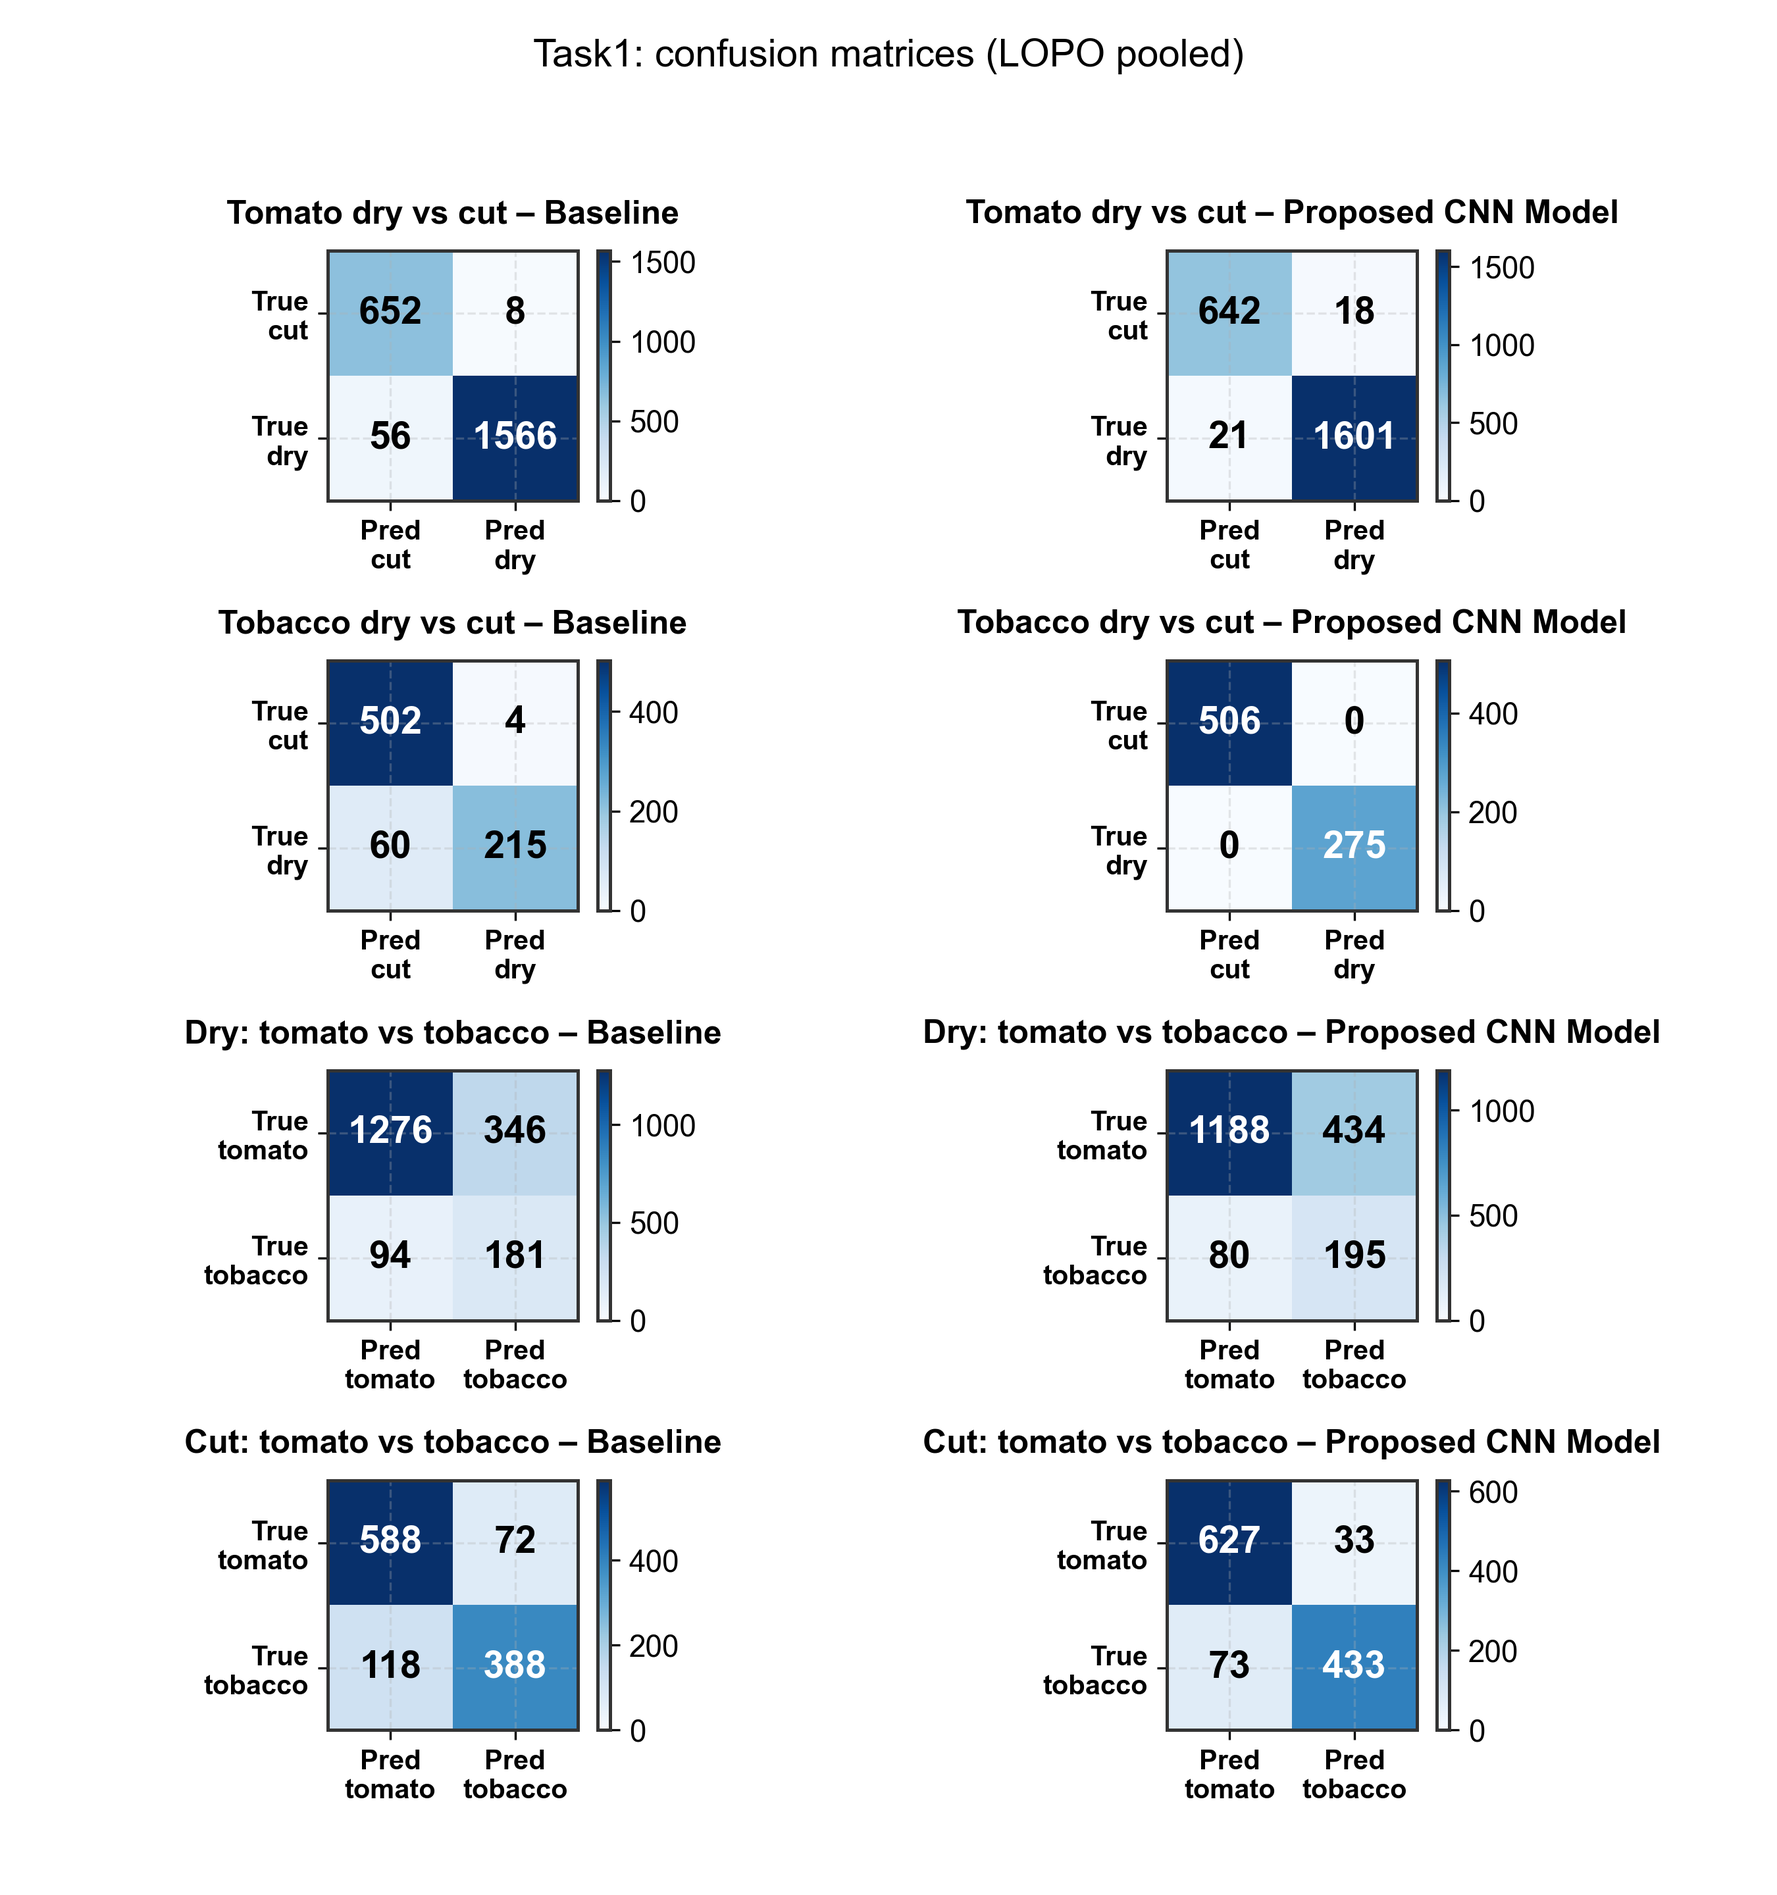
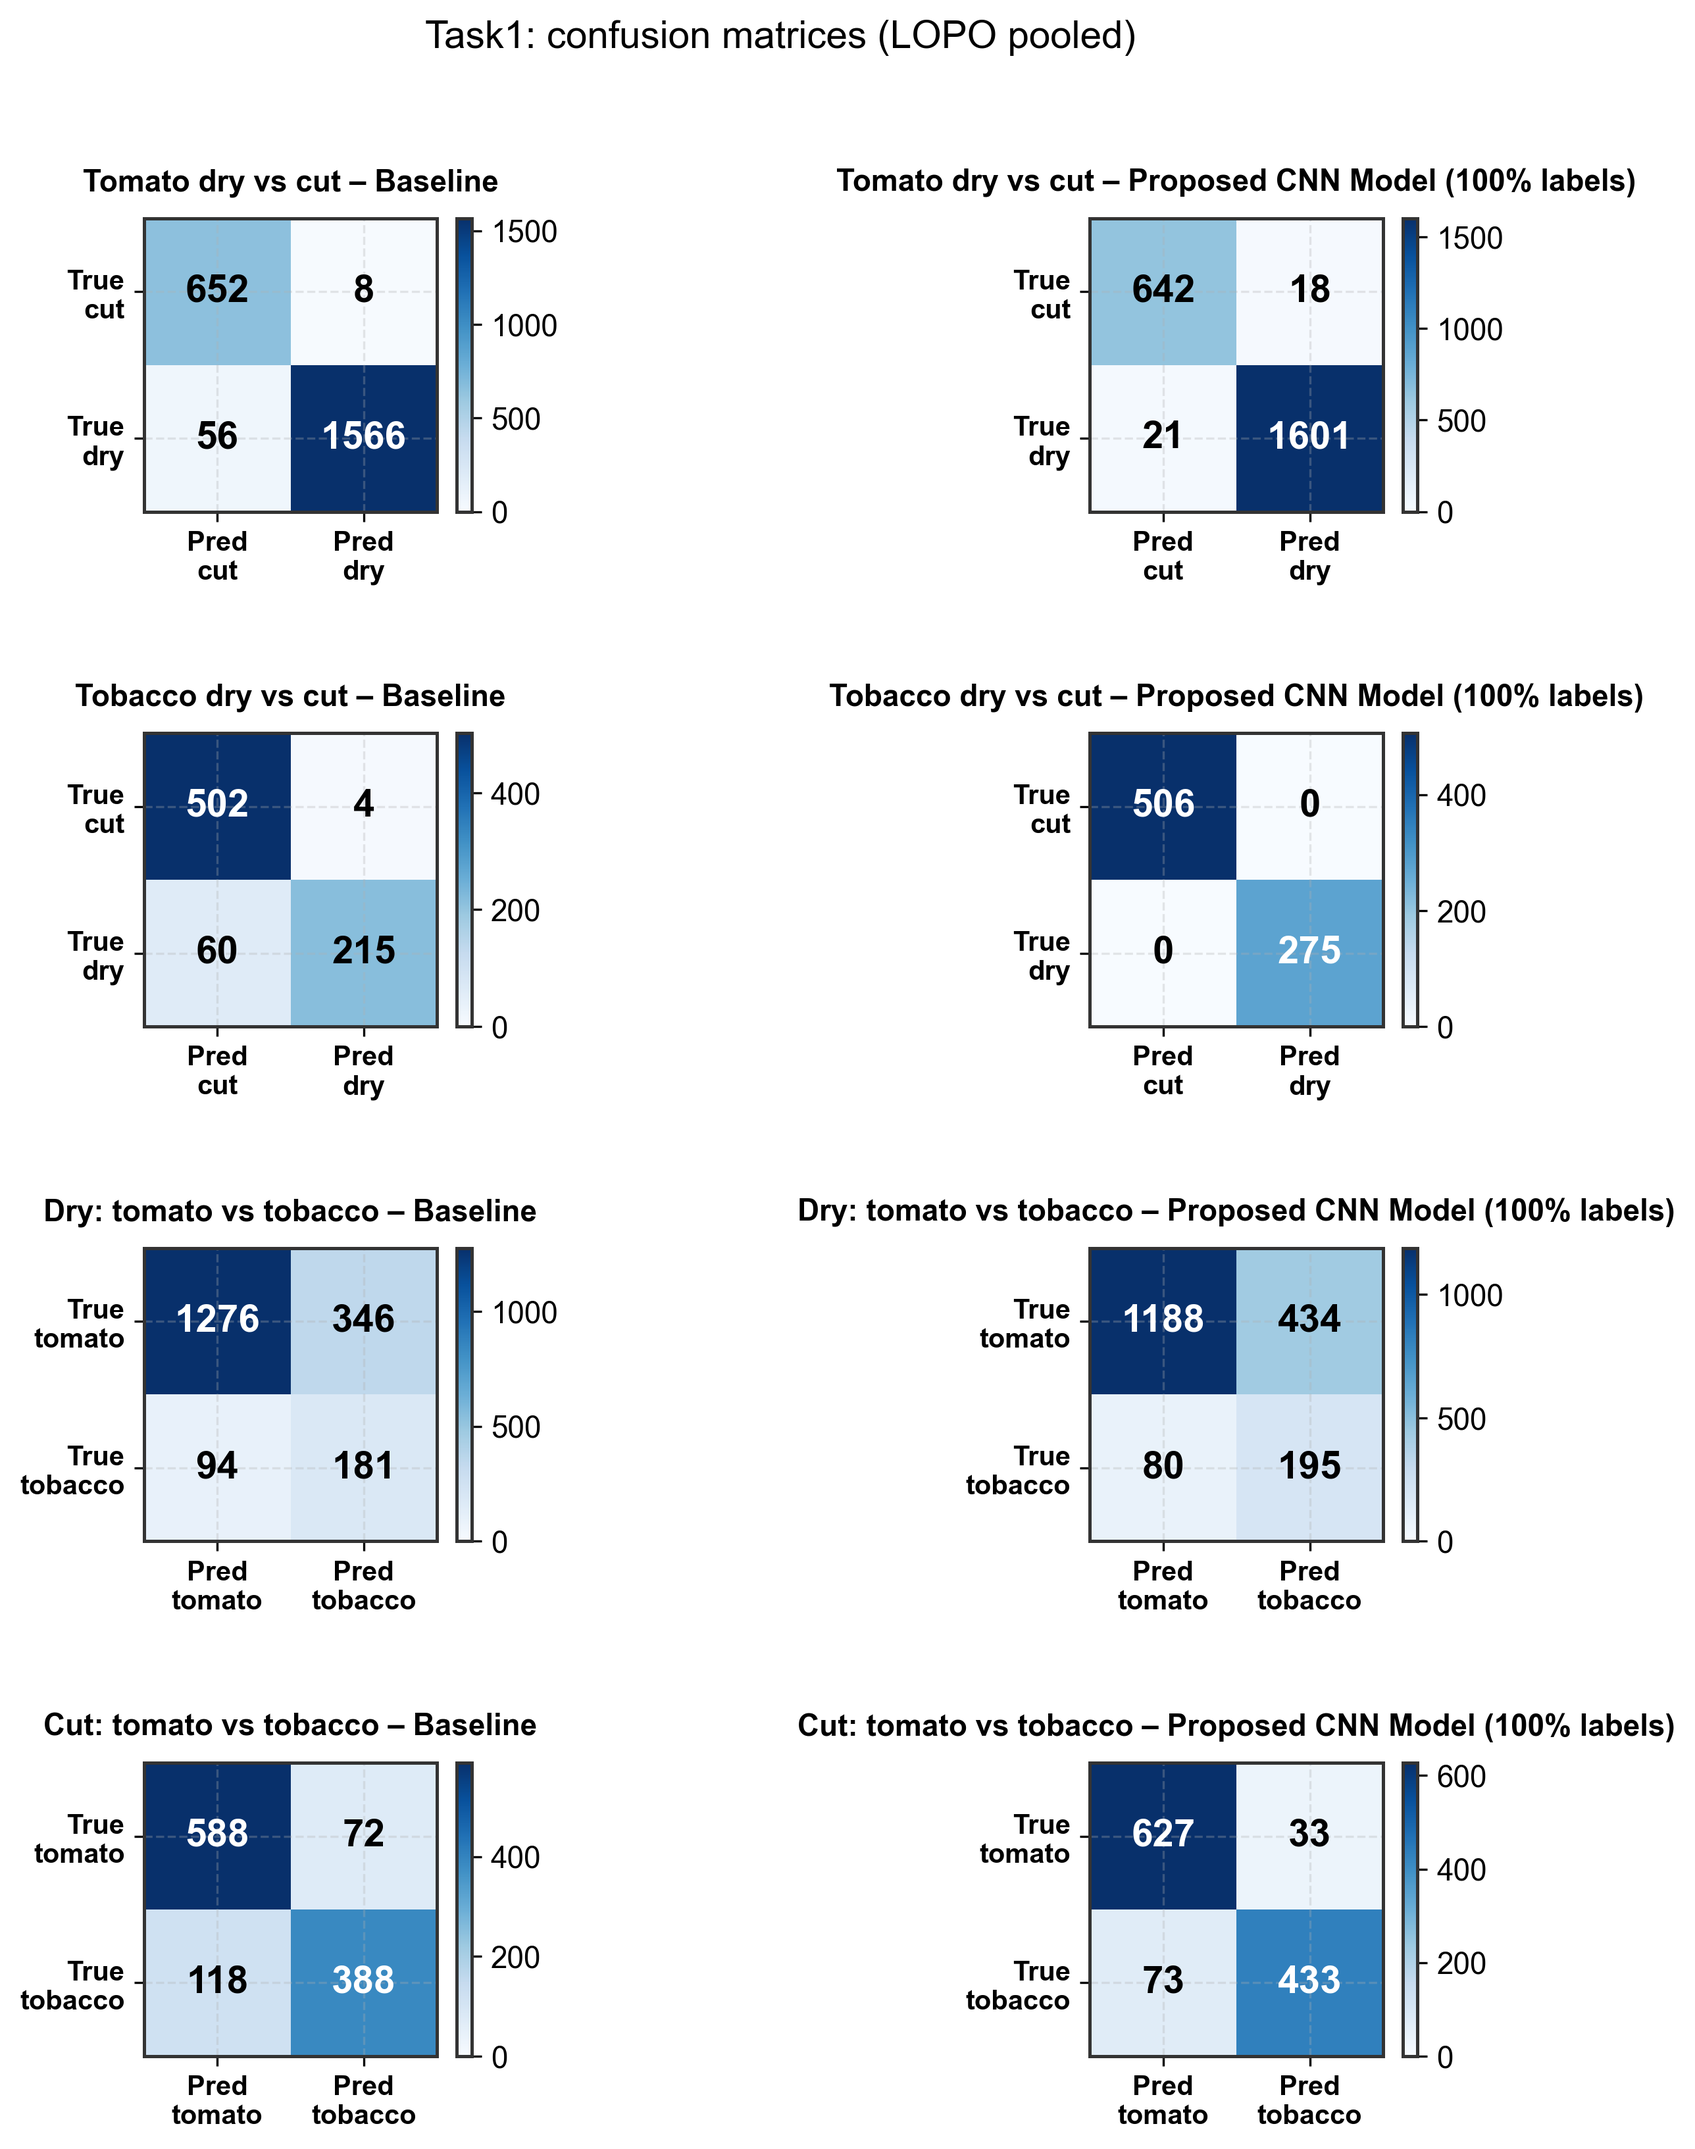
add img in figures/

diff --git a/src/analysis/plot_results.py b/src/analysis/plot_results.py
@@ -610,7 +610,7 @@ def _plot_single_confusion(ax, cm: np.ndarray, title: str, task_name: str):
     ax.set_yticks([0, 1])
     ax.set_xticklabels([f"Pred\n{c}" for c in classes], fontsize=10, fontweight="bold")
     ax.set_yticklabels([f"True\n{c}" for c in classes], fontsize=10, fontweight="bold")
-    ax.set_title(title, pad=10, fontsize=12, fontweight="bold")
+    ax.set_title(title, pad=10, fontsize=11, fontweight="bold", wrap=True)
 
     # Add colorbar (only if matrix is not empty)
     if not is_empty:
@@ -633,7 +633,7 @@ def plot_confusions_task1(fig_root: Path, base_cm, my_cm):
         return
 
     # Create subplot with only valid rows
-    fig, axes = plt.subplots(len(valid_items), 2, figsize=(9, 2.4 * len(valid_items)))
+    fig, axes = plt.subplots(len(valid_items), 2, figsize=(10, 2.8 * len(valid_items)))
     if len(valid_items) == 1:
         axes = axes.reshape(1, 2)
     else:
@@ -649,13 +649,13 @@ def plot_confusions_task1(fig_root: Path, base_cm, my_cm):
         _plot_single_confusion(
             axes[plot_idx, 1],
             my_cm[key],
-            title=f"{TASK1_LABELS[orig_idx]} – Proposed CNN Model",
+            title=f"{TASK1_LABELS[orig_idx]} – Proposed CNN Model (100% labels)",
             task_name=key,
         )
 
-    fig.suptitle("Task1: confusion matrices (LOPO pooled)", fontsize=14)
-    fig.tight_layout(rect=[0, 0.03, 1, 0.95])
-    fig.savefig(fig_root / "task1_confusion_matrices.png", dpi=300)
+    fig.suptitle("Task1: confusion matrices (LOPO pooled)", fontsize=14, y=0.98)
+    fig.tight_layout(rect=[0, 0.01, 1, 0.96], h_pad=3.0, w_pad=2.0)
+    fig.savefig(fig_root / "task1_confusion_matrices.png", dpi=300, bbox_inches='tight')
 
 
 def plot_confusions_task23(fig_root: Path, base_cm, my_cm):
@@ -675,13 +675,95 @@ def plot_confusions_task23(fig_root: Path, base_cm, my_cm):
         _plot_single_confusion(
             axes[i, 1],
             my_cm[key],
-            title=f"{titles[i]} – Proposed CNN Model",
+            title=f"{titles[i]} – Proposed CNN Model (100% labels)",
             task_name=key,
         )
 
-    fig.suptitle("Task2 / Task3: confusion matrices (LOPO pooled)", fontsize=14, y=0.98)
-    fig.tight_layout(rect=[0, 0.01, 1, 0.96])
+    fig.suptitle("Task2 / Task3: confusion matrices (LOPO pooled)", fontsize=14, y=0.99)
+    fig.tight_layout(rect=[0, 0.01, 1, 0.97], h_pad=3.5, w_pad=2.5)
     fig.savefig(fig_root / "task2_task3_confusion_matrices.png", dpi=300, bbox_inches="tight")
+
+
+def compute_confusions_task4(exp_root: Path):
+    """
+    Compute confusion matrices for Task 4 (semi-supervised learning).
+    Returns confusion matrices for 100% labels and 50% labels.
+    """
+    my_cm_full = {}
+    my_cm_semi = {}
+
+    # Task 4 uses task1 subtasks with different label fractions
+    for key in TASK1_KEYS:
+        # 100% labels
+        try:
+            my_cm_full[key] = reconstruct_confusion_for_model(
+                key,
+                exp_root / "task1_proposed_model" / f"{key}_lopo_results.csv",
+            )
+        except FileNotFoundError:
+            my_cm_full[key] = np.zeros((2, 2), dtype=int)
+
+        # 50% labels (Task 4) - try both naming patterns
+        try:
+            # Try pattern 1: task4_{key}_lopo_results.csv
+            csv_path = exp_root / "task4_proposed_model" / f"task4_{key}_lopo_results.csv"
+            if not csv_path.exists():
+                # Try pattern 2: {key}_lopo_results_labeled0.5.csv
+                csv_path = exp_root / "task4_proposed_model" / f"{key}_lopo_results_labeled0.5.csv"
+
+            my_cm_semi[key] = reconstruct_confusion_for_model(key, csv_path)
+        except (FileNotFoundError, Exception) as e:
+            my_cm_semi[key] = np.zeros((2, 2), dtype=int)
+
+    return my_cm_full, my_cm_semi
+
+
+def plot_confusions_task4(fig_root: Path, exp_root: Path):
+    """
+    Plot confusion matrices for Task 4 comparing 100% labels vs 50% labels.
+    Shows the effect of semi-supervised learning.
+    """
+    try:
+        my_cm_full, my_cm_semi = compute_confusions_task4(exp_root)
+    except Exception as e:
+        print(f"[WARN] Cannot generate Task4 confusion matrices: {e}")
+        return
+
+    # Filter out empty confusion matrices
+    valid_items = []
+    for i, key in enumerate(TASK1_KEYS):
+        if my_cm_full[key].sum() > 0 and my_cm_semi[key].sum() > 0:
+            valid_items.append((i, key))
+
+    if len(valid_items) == 0:
+        print("[WARN] No valid confusion matrices to plot for Task4")
+        return
+
+    # Create subplot with only valid rows
+    fig, axes = plt.subplots(len(valid_items), 2, figsize=(10, 2.8 * len(valid_items)))
+    if len(valid_items) == 1:
+        axes = axes.reshape(1, 2)
+    else:
+        axes = axes.reshape(len(valid_items), 2)
+
+    for plot_idx, (orig_idx, key) in enumerate(valid_items):
+        _plot_single_confusion(
+            axes[plot_idx, 0],
+            my_cm_full[key],
+            title=f"{TASK1_LABELS[orig_idx]} – Proposed CNN Model (100% labels)",
+            task_name=key,
+        )
+        _plot_single_confusion(
+            axes[plot_idx, 1],
+            my_cm_semi[key],
+            title=f"{TASK1_LABELS[orig_idx]} – Proposed CNN Model (50% labels)",
+            task_name=key,
+        )
+
+    fig.suptitle("Task4: Semi-supervised Learning Effect (LOPO pooled)", fontsize=14, y=0.98)
+    fig.tight_layout(rect=[0, 0.01, 1, 0.96], h_pad=3.0, w_pad=2.0)
+    fig.savefig(fig_root / "task4_confusion_matrices.png", dpi=300, bbox_inches='tight')
+    print(f"Saved: {fig_root / 'task4_confusion_matrices.png'}")
 
 
 def plot_metrics_summary_table(fig_root: Path, exp_root: Path):
@@ -1335,6 +1417,9 @@ def main():
         base_cm23, my_cm23 = compute_confusions_task23(exp_root)
         plot_confusions_task23(fig_root, base_cm23, my_cm23)
 
+        # Task4 confusion matrices (100% vs 50% labels)
+        plot_confusions_task4(fig_root, exp_root)
+
         print("      ✓ Confusion matrices generated")
     except FileNotFoundError as e:
         print(f"      [WARN] Skipping (raw data not available)")
@@ -1362,9 +1447,10 @@ def main():
     print("  1. metrics_summary_table.png")
     print("  2. task1_confusion_matrices.png")
     print("  3. task2_task3_confusion_matrices.png")
-    print("  4. task1_balanced_accuracy_bar.png")
-    print("  5. task2_task3_balanced_accuracy_bar.png")
-    print("  6. task4_label_fraction_effect.png")
+    print("  4. task4_confusion_matrices.png")
+    print("  5. task1_balanced_accuracy_bar.png")
+    print("  6. task2_task3_balanced_accuracy_bar.png")
+    print("  7. task4_label_fraction_effect.png")
     print(f"\nLocation: {fig_root}")
     print("=" * 70)
 
